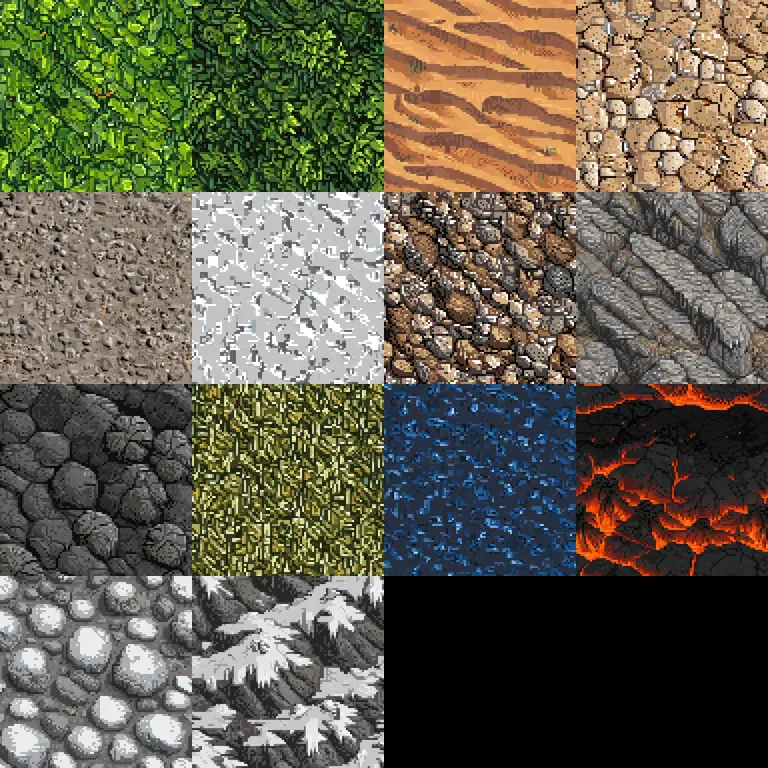
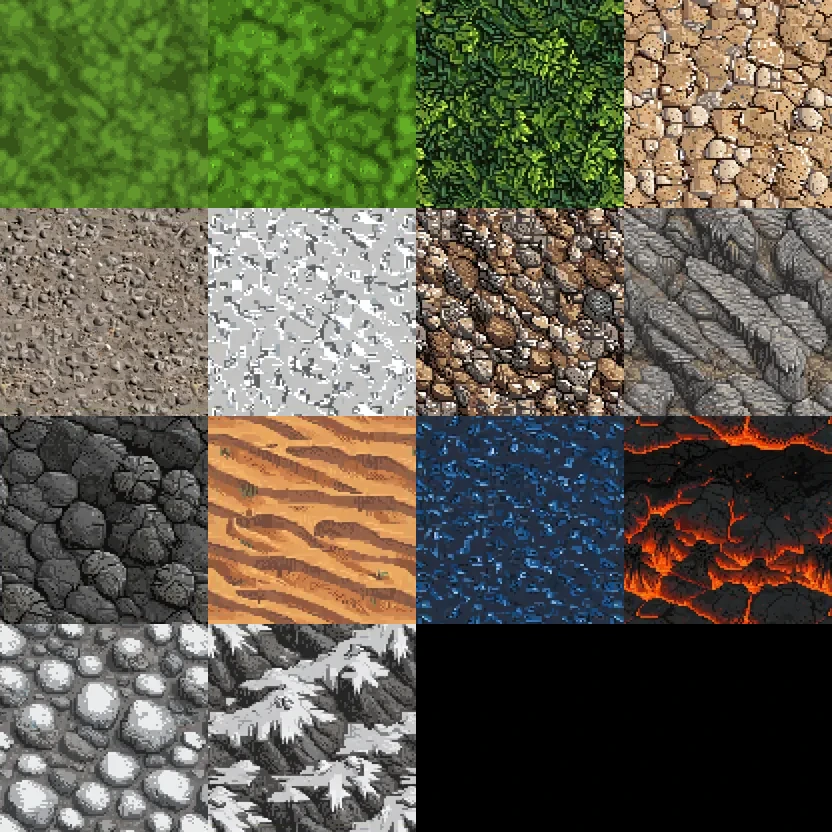
Terrain textures round 4: flat, clean grassland
A fresh steppe tile, post-processed into a few broad tones with chunky 2 px pixels and
sparse tufts; the lush meadow cleaned up the same way. Atlas cells padded so lossy webp
no longer bleeds water blue into neighbouring tiles.

diff --git a/src/ui/screens/surface/terrainTextures.ts b/src/ui/screens/surface/terrainTextures.ts
@@ -1,5 +1,5 @@
 /**
- * Seamless terrain textures for the surface map (public/assets/terrain/atlas.webp: a 4x3 grid of 192 px tiles,
+ * Seamless terrain textures for the surface map (public/assets/terrain/atlas.webp: a 4x4 grid of 192 px tiles, each with an 8 px wrapped margin,
  * generated with Stable Diffusion + the pixel-art LoRA and tiled with the "tiling" option; see docs/art_pipeline.md).
  *
  * One texture set serves every world: each (body kind, terrain) pair picks a texture and recolours it so its
@@ -21,15 +21,18 @@ export const TEX = 192;
 /** HEX pixels per texture pixel when the map is painted (above 1 stretches the texture, so its detail reads at the default zoom). */
 export const TEX_SCALE = 1.5;
 const COLS = 4;
+/** Each tile sits in the atlas with PAD pixels of its own wrapped edge around it, so lossy compression never bleeds a neighbour's colour in. */
+const PAD = 8;
+const CELL = TEX + 2 * PAD;
 
 /**
  * Atlas order, row by row. "steppe" is the quiet everyday grassland, "grass" the lush meadow (verdant ground only),
  * "frost" a soft, low-contrast snow and ice, and "water" a calm, flat sheet that depth shading is laid over.
  */
 const NAMES = [
-  "grass", "shrub", "sand", "hardpan",
+  "grass", "steppe", "shrub", "hardpan",
   "dust", "frost", "rubble", "rock",
-  "basalt", "steppe", "water", "lava",
+  "basalt", "sand", "water", "lava",
   "scree", "peaks",
 ] as const;
 type TexName = (typeof NAMES)[number];
@@ -50,8 +53,8 @@ const TEXTURE_FOR: Record<BodyKind, readonly [TexName, TexName, TexName, TexName
 
 /** How much of the texture's contrast to keep, per terrain (bright palettes clip if pushed). */
 const AMOUNT: readonly number[] = [0.75, 0.75, 0.8, 0.22, 0.5, 1];
-/** Ordinary plains on worlds that use the steppe tile: kept quiet, so ground cover doesn't shout. */
-const STEPPE_AMOUNT = 0.28;
+/** Ordinary plains on worlds that use the steppe tile: a flat few-tone meadow (its own contrast is already low), so ground cover doesn't shout. */
+const STEPPE_AMOUNT = 1;
 /** Shrubland keeps a bit less of its (very leafy) contrast than rock and rubble do. */
 const SHRUB_AMOUNT = 0.6;
 /** The ice worlds' own rock tiles: frozen scree on rough ground, snow-capped ranges on mountains. */
@@ -60,9 +63,9 @@ const PEAKS_AMOUNT = 0.6;
 /** Steppe leans toward this dry olive, so it reads apart from the lush meadow. */
 const STEPPE_TINT = [150, 156, 92] as const;
 /** The lush meadow tile is toned down from the full-strength grass the first pass painted everywhere. */
-const LUSH_AMOUNT = 0.45;
+const LUSH_AMOUNT = 0.55;
 /** Share of its colour that grassland gives up toward grey (steppe, then meadow), so it sits back on the map. */
-const STEPPE_DESAT = 0.22;
+const STEPPE_DESAT = 0.12;
 const LUSH_DESAT = 0.1;
 /** Ice and snow are painted darker and greyer than their palette colour (ice worlds most), so markers stand out on them. */
 const ICE_TONE = 0.8;
@@ -111,7 +114,7 @@ export function loadTextures(): void {
       ctx.drawImage(img, 0, 0);
       const out: Decoded[] = [];
       for (let n = 0; n < NAMES.length; n++) {
-        const data = ctx.getImageData((n % COLS) * TEX, Math.floor(n / COLS) * TEX, TEX, TEX).data;
+        const data = ctx.getImageData((n % COLS) * CELL + PAD, Math.floor(n / COLS) * CELL + PAD, TEX, TEX).data;
         const rgb = new Uint8ClampedArray(TEX * TEX * 3);
         const sum = [0, 0, 0];
         for (let i = 0, j = 0; i < data.length; i += 4, j += 3) {
